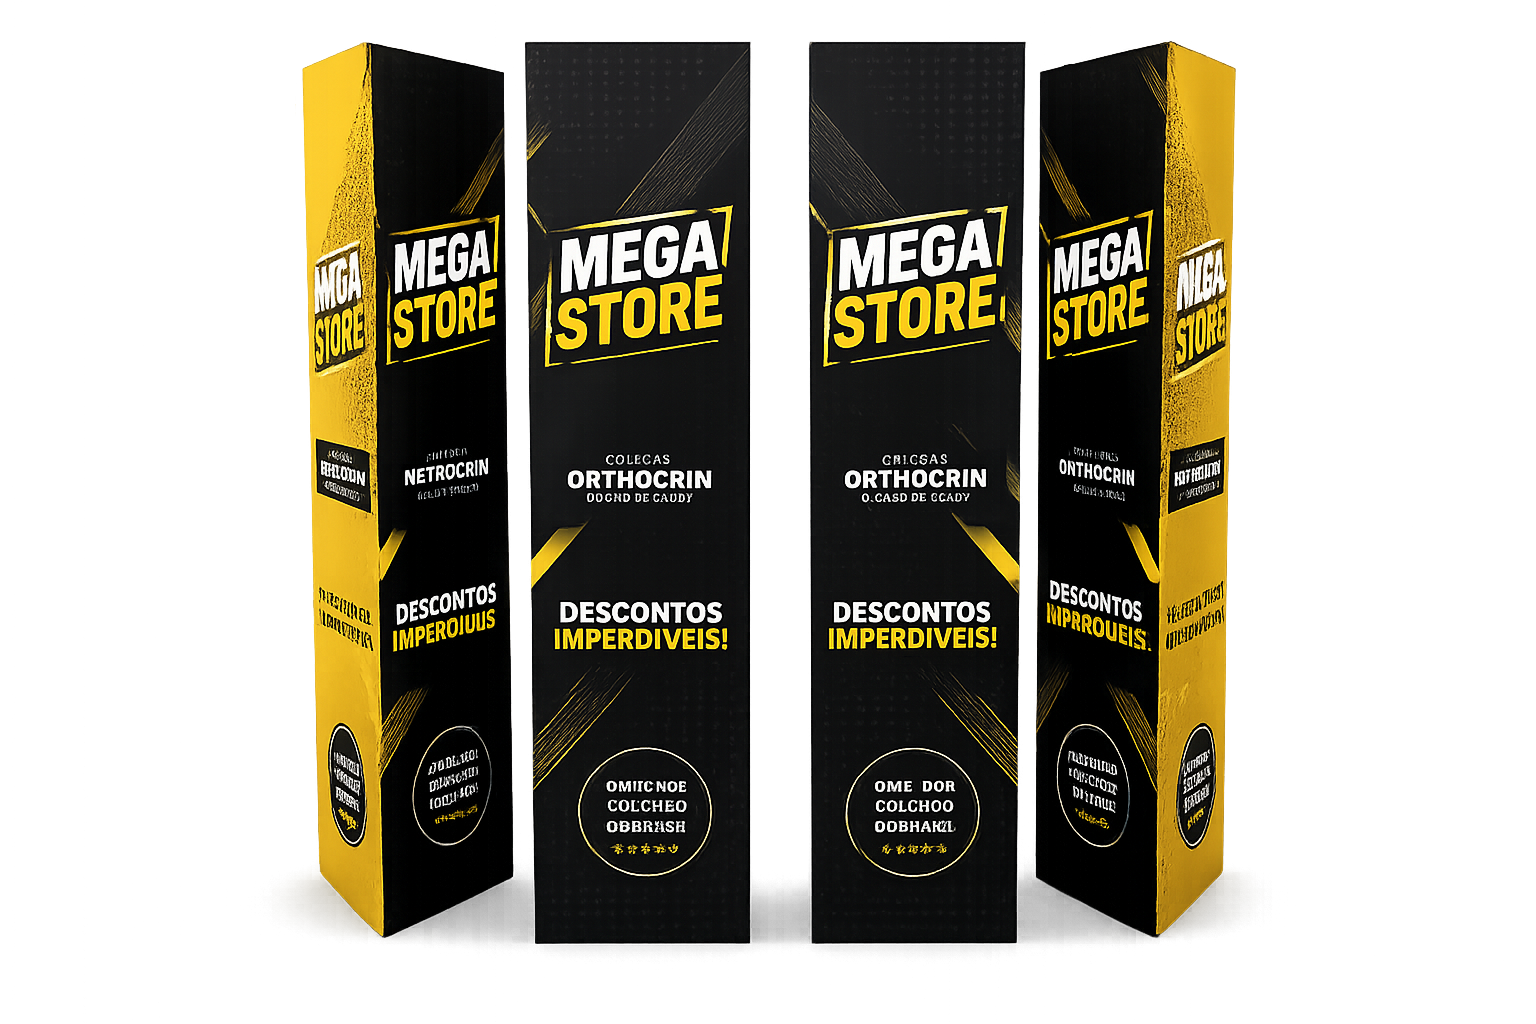
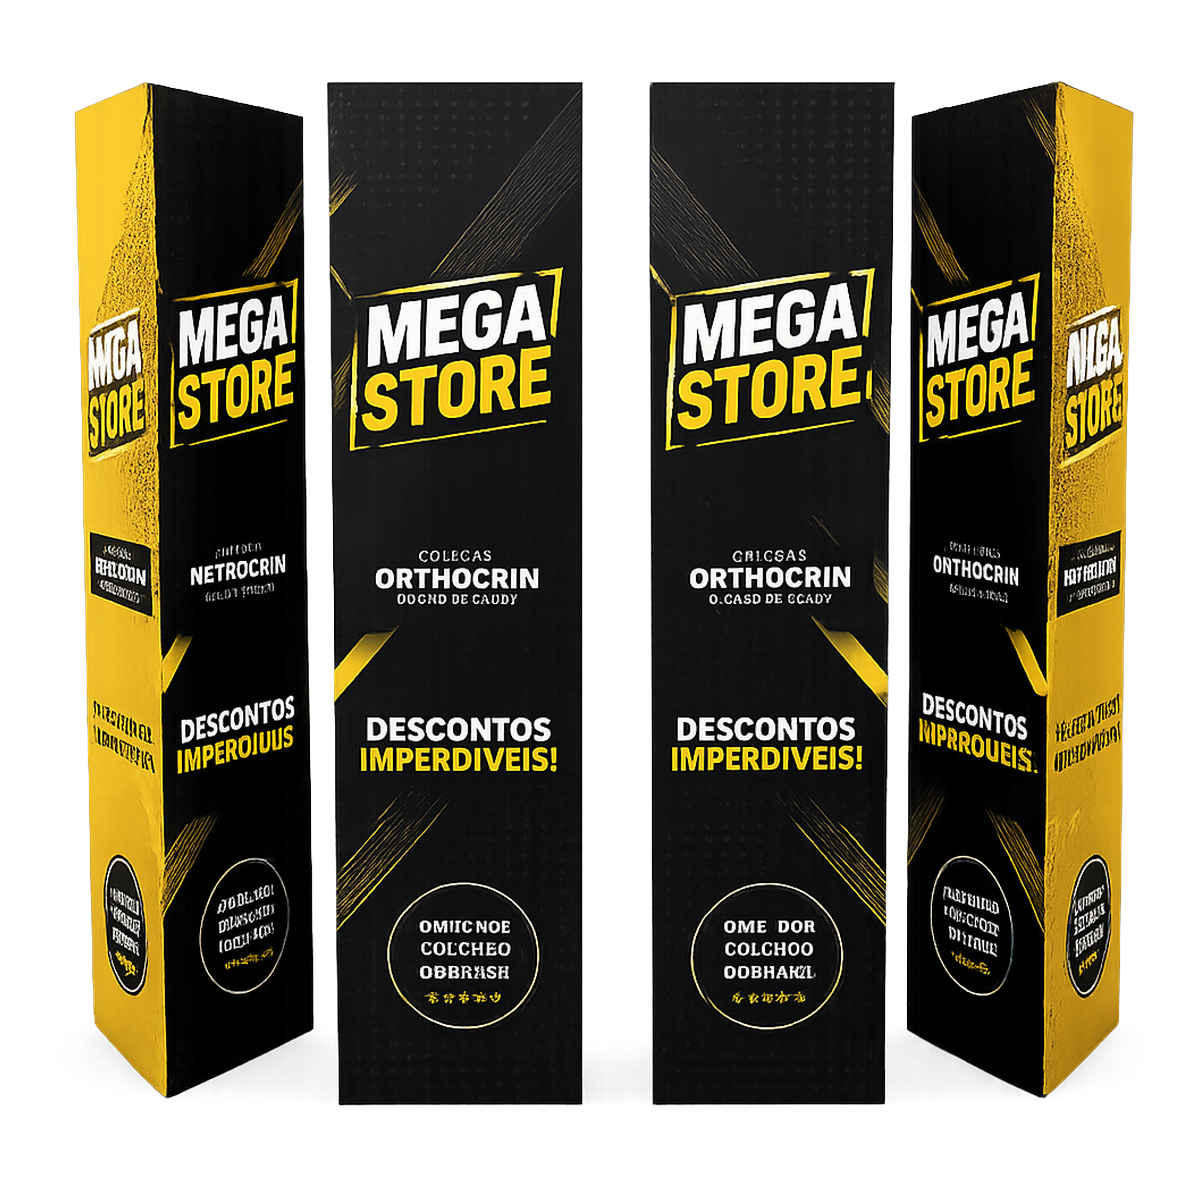
hero: novo slide Totem Elíptico + padroniza imagens em 1200x1200
- Slide #4 "Sofisticação Premium" → Totem Elíptico (tema imobiliária LAR FELIZ)
- Fundo branco removido da imagem do Elíptico (PIL alpha mask)
- Padroniza 4 hero images: auto-crop + canvas 1200x1200 RGBA, produto ~92%
- Cache bump nos ?v= dos slides

diff --git a/templates/catalog/home.html b/templates/catalog/home.html
@@ -526,7 +526,7 @@
                     subtitle: 'Destaque Absoluto',
                     title: 'Totem Triedro',
                     description: 'Atraia clientes de todos os lados com o Totem Triedro. Material extremamente leve, automontável e com impressão HD.',
-                    image: "{% static 'img/totem_triedro_hero.png' %}?v=28",
+                    image: "{% static 'img/totem_triedro_hero.png' %}?v=29",
                     cta: 'COMPRAR AGORA',
                     link: '/produto/totem-triedro-em-poliondas/',
                     bgColor: 'bg-[#f0f4f8]',
@@ -540,7 +540,7 @@
                     subtitle: 'Lançamento',
                     title: 'Cubo Promo',
                     description: 'Construa vitrines criativas e ilhas sensacionais empilhando cubos super resistentes. Impacto visual imediato no PDV.',
-                    image: "{% static 'img/cubo_ptbr.png' %}?v=12",
+                    image: "{% static 'img/cubo_ptbr.png' %}?v=13",
                     cta: 'COMPRAR AGORA',
                     link: '/produto/cubo-promocional-em-poliondas/',
                     bgColor: 'bg-[#fcf5ec]',
@@ -554,7 +554,7 @@
                     subtitle: 'Elegância Prática',
                     title: 'Banner Rollup',
                     description: 'Apresentação corporativa de luxo. Acompanha bolsa para transporte e é armado em menos de 10 segundos.',
-                    image: "{% static 'img/rollup_hero.png' %}?v=10",
+                    image: "{% static 'img/rollup_hero.png' %}?v=11",
                     cta: 'COMPRAR AGORA',
                     link: '/produto/banner-rollup/',
                     bgColor: 'bg-[#f7f2fb]',
@@ -563,6 +563,20 @@
                     descColor: 'text-gray-600',
                     btnClass: 'bg-purple-600 text-white hover:bg-purple-700 shadow-purple-600/30',
                     glowColor: 'bg-purple-300'
+                },
+                {
+                    subtitle: 'Sofisticação Premium',
+                    title: 'Totem Elíptico',
+                    description: 'Visual elegante para ambientes premium. Formato curvo com 2 faces personalizadas em poliondas resistente. Vai dobrado e monta em segundos.',
+                    image: "{% static 'img/totem_eliptico_hero.png' %}?v=3",
+                    cta: 'COMPRAR AGORA',
+                    link: '/produto/totem-eliptico-em-poliondas/',
+                    bgColor: 'bg-[#f4f7fb]',
+                    textColor: 'text-[#0a2553]',
+                    titleColor: 'text-gray-900',
+                    descColor: 'text-gray-600',
+                    btnClass: 'bg-[#0a2553] text-white hover:bg-[#153e8a] shadow-[#0a2553]/30',
+                    glowColor: 'bg-blue-200'
                 }
             ],
             start() {

diff --git a/standardize_hero_images.py b/standardize_hero_images.py
@@ -1,0 +1,65 @@
+"""Padroniza imagens do hero slider: todas 1200x1200 RGBA com produto centralizado
+ocupando ~90% do canvas. Auto-trim das bordas transparentes/brancas antes."""
+from PIL import Image
+import numpy as np
+from pathlib import Path
+
+TARGET = 1200
+FILL_RATIO = 0.92  # ocupação do produto dentro do canvas
+
+IMGS = [
+    "static/img/totem_triedro_hero.png",
+    "static/img/cubo_ptbr.png",
+    "static/img/rollup_hero.png",
+    "static/img/totem_eliptico_hero.png",
+]
+
+def auto_crop(img: Image.Image) -> Image.Image:
+    """Crop bordas transparentes OU quase-brancas."""
+    arr = np.array(img)
+    if arr.shape[2] == 4:
+        # Tem alpha — usa pra detectar conteúdo
+        mask = arr[..., 3] > 10
+    else:
+        # Sem alpha — usa proximidade do branco
+        r, g, b = arr[..., 0], arr[..., 1], arr[..., 2]
+        mask = ~((r >= 240) & (g >= 240) & (b >= 240))
+    rows = np.any(mask, axis=1)
+    cols = np.any(mask, axis=0)
+    if not rows.any():
+        return img
+    rmin, rmax = np.where(rows)[0][[0, -1]]
+    cmin, cmax = np.where(cols)[0][[0, -1]]
+    return img.crop((int(cmin), int(rmin), int(cmax) + 1, int(rmax) + 1))
+
+for path_str in IMGS:
+    p = Path(path_str)
+    if not p.exists():
+        print(f"SKIP (não existe): {p}")
+        continue
+
+    img = Image.open(p).convert("RGBA")
+    original_size = img.size
+
+    # 1. Auto-crop bordas
+    img = auto_crop(img)
+    cropped = img.size
+
+    # 2. Escalar pra ocupar FILL_RATIO do canvas
+    target_inner = int(TARGET * FILL_RATIO)
+    scale = min(target_inner / img.width, target_inner / img.height)
+    new_w = int(img.width * scale)
+    new_h = int(img.height * scale)
+    img = img.resize((new_w, new_h), Image.LANCZOS)
+
+    # 3. Centralizar em canvas TARGETxTARGET transparente
+    canvas = Image.new("RGBA", (TARGET, TARGET), (0, 0, 0, 0))
+    x = (TARGET - new_w) // 2
+    y = (TARGET - new_h) // 2
+    canvas.paste(img, (x, y), img)
+
+    canvas.save(p, optimize=True)
+    kb = p.stat().st_size / 1024
+    print(f"OK  {p.name:35s} | {original_size[0]:>4}x{original_size[1]:<4} -> trim {cropped[0]:>4}x{cropped[1]:<4} -> canvas {TARGET}x{TARGET} | {kb:>5.0f}KB")
+
+print("\nDONE.")